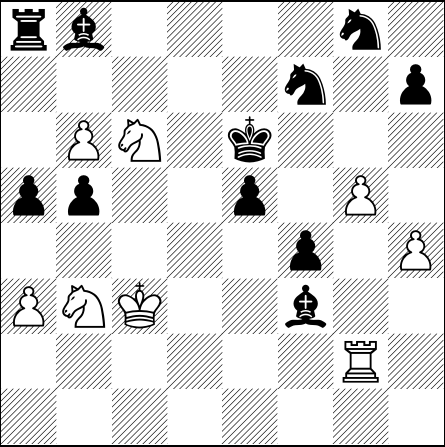
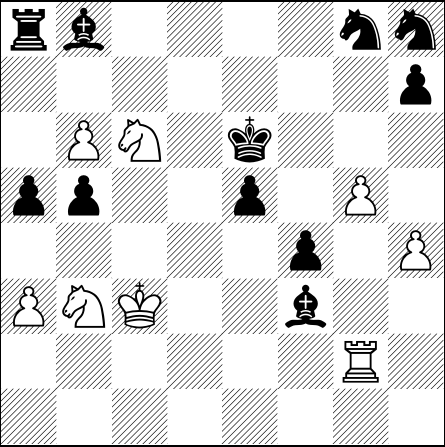
[automated] Regenerate text/pdf for chessboard

Changed region(s): [[0.8764, 0.0, 0.9933, 0.1163], [0.6427, 0.1454, 0.7303, 0.2327]]

diff --git a/default_filepath.tex b/default_filepath.tex
@@ -13,6 +13,6 @@
 \normalsize%
 \setchessboard{showmover=false}%
 \newgame%
-\fenboard{rb4n1/5n1p/1PN1k3/pp2p1P1/5p1P/PNK2b2/6R1/8 b - - 4 69}%
+\fenboard{rb4nn/7p/1PN1k3/pp2p1P1/5p1P/PNK2b2/6R1/8 w - - 5 70}%
 \chessboard%
 \end{document}
